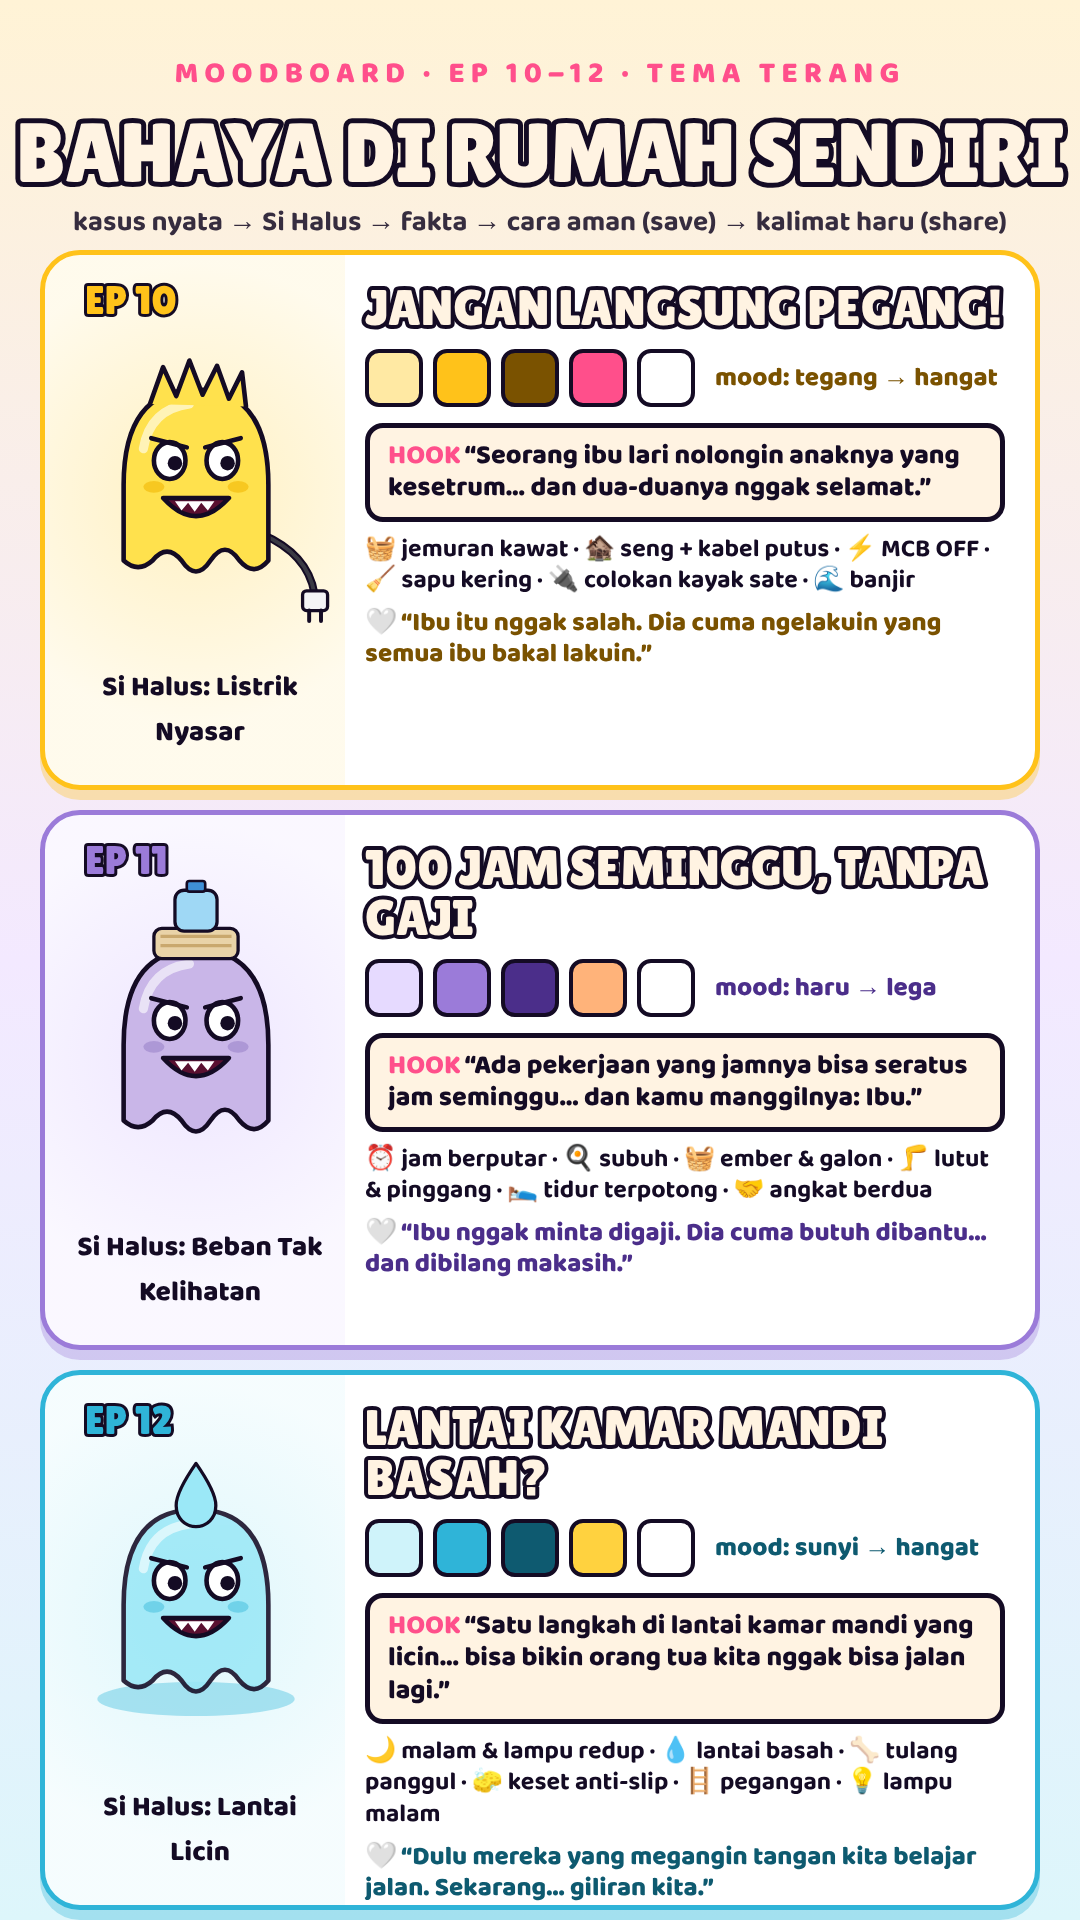
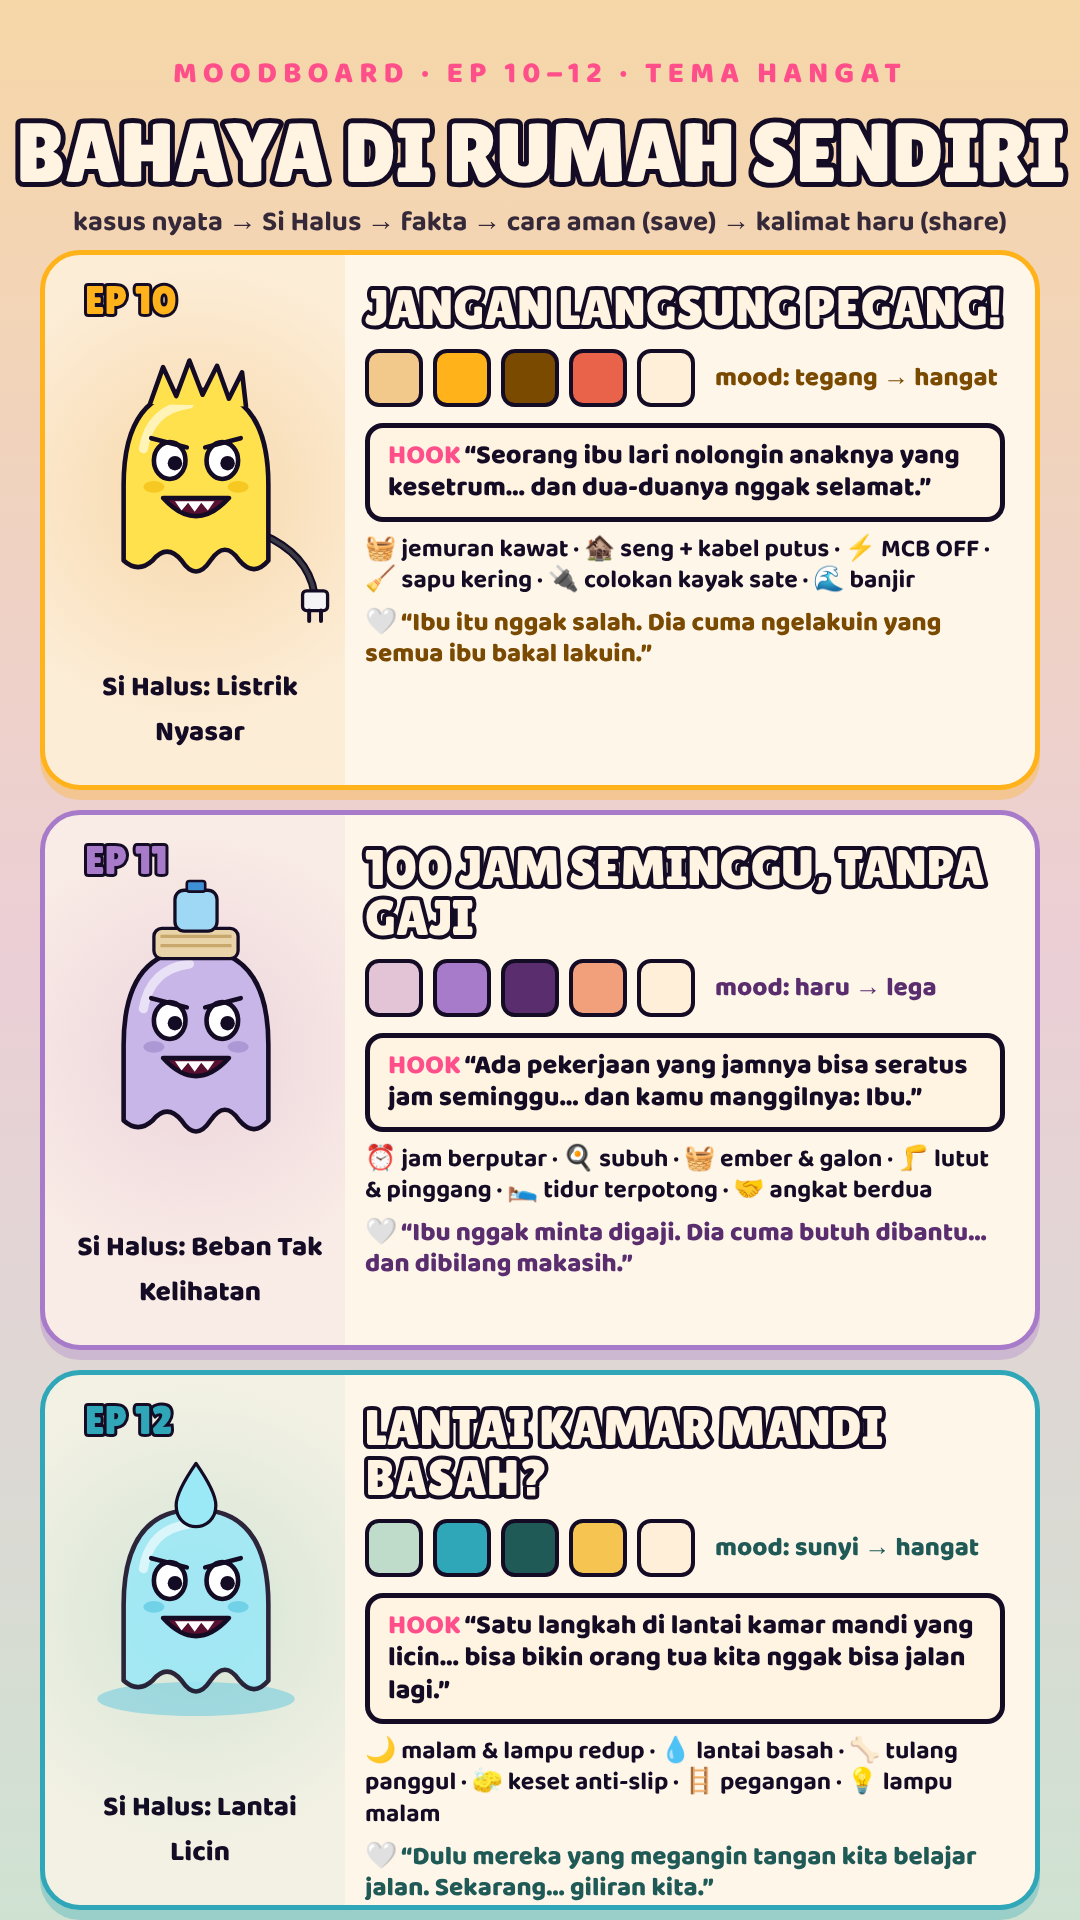
bahaya-tak-terlihat: palet hangat EP10-12 (krem-peach, amber, mauve, sage)
Claude-Session: https://claude.ai/code/session_012ZutiwbFwz53uic7DJWbi6

diff --git a/bahaya-tak-terlihat/src/Moodboard.tsx b/bahaya-tak-terlihat/src/Moodboard.tsx
@@ -22,7 +22,7 @@ const EPS: Ep[] = [
     title: "JANGAN LANGSUNG PEGANG!",
     ghost: "volt",
     ghostName: "Listrik Nyasar",
-    palette: ["#FFE9A3", "#FFC21A", "#7A5200", "#FF4F8B", "#FFFFFF"],
+    palette: ["#F3C98B", "#FFB21A", "#7A4A00", "#E8634A", "#FFEFD9"],
     hook: "“Seorang ibu lari nolongin anaknya yang kesetrum… dan dua-duanya nggak selamat.”",
     heart: "“Ibu itu nggak salah. Dia cuma ngelakuin yang semua ibu bakal lakuin.”",
     scenes: "🧺 jemuran kawat · 🏚 seng + kabel putus · ⚡ MCB OFF · 🧹 sapu kering · 🔌 colokan kayak sate · 🌊 banjir",
@@ -33,7 +33,7 @@ const EPS: Ep[] = [
     title: "100 JAM SEMINGGU, TANPA GAJI",
     ghost: "load",
     ghostName: "Beban Tak Kelihatan",
-    palette: ["#E6DAFF", "#9B7BD9", "#4B2E8A", "#FFB37A", "#FFFFFF"],
+    palette: ["#E3C4D6", "#A77BC9", "#5A2E6E", "#F2A07B", "#FFEFD9"],
     hook: "“Ada pekerjaan yang jamnya bisa seratus jam seminggu… dan kamu manggilnya: Ibu.”",
     heart: "“Ibu nggak minta digaji. Dia cuma butuh dibantu… dan dibilang makasih.”",
     scenes: "⏰ jam berputar · 🍳 subuh · 🧺 ember & galon · 🦵 lutut & pinggang · 🛌 tidur terpotong · 🤝 angkat berdua",
@@ -44,7 +44,7 @@ const EPS: Ep[] = [
     title: "LANTAI KAMAR MANDI BASAH?",
     ghost: "slip",
     ghostName: "Lantai Licin",
-    palette: ["#CFF3FA", "#2FB4D8", "#0E5A70", "#FFD23F", "#FFFFFF"],
+    palette: ["#BFDCCB", "#2FA7B8", "#1F5A57", "#F5C451", "#FFEFD9"],
     hook: "“Satu langkah di lantai kamar mandi yang licin… bisa bikin orang tua kita nggak bisa jalan lagi.”",
     heart: "“Dulu mereka yang megangin tangan kita belajar jalan. Sekarang… giliran kita.”",
     scenes: "🌙 malam & lampu redup · 💧 lantai basah · 🦴 tulang panggul · 🧽 keset anti-slip · 🪜 pegangan · 💡 lampu malam",
@@ -53,7 +53,7 @@ const EPS: Ep[] = [
 ];
 
 const Row: React.FC<{ e: Ep; top: number }> = ({ e, top }) => (
-  <div style={{ position: "absolute", top, left: 40, right: 40, height: 540, background: "#FFFFFF", border: `5px solid ${e.palette[1]}`, boxShadow: `0 10px 0 ${e.palette[1]}55`, borderRadius: 40, overflow: "hidden" }}>
+  <div style={{ position: "absolute", top, left: 40, right: 40, height: 540, background: "#FFF6EA", border: `5px solid ${e.palette[1]}`, boxShadow: `0 10px 0 ${e.palette[1]}55`, borderRadius: 40, overflow: "hidden" }}>
     <div style={{ position: "absolute", left: 0, top: 0, bottom: 0, width: 300, background: `radial-gradient(circle at 50% 45%, ${e.palette[0]}AA, ${e.palette[0]}33 70%)` }} />
     <div style={{ position: "absolute", left: 26, top: 70 }}>
       <SiHalus size={300} variant={e.ghost} mood="grin" />
@@ -79,9 +79,9 @@ const Row: React.FC<{ e: Ep; top: number }> = ({ e, top }) => (
 );
 
 export const Moodboard: React.FC = () => (
-  <AbsoluteFill style={{ background: "linear-gradient(180deg, #FFF3D6 0%, #F3E9FF 50%, #DDF6FB 100%)" }}>
+  <AbsoluteFill style={{ background: "linear-gradient(180deg, #F6D7A8 0%, #EBCFD6 50%, #CFE2D2 100%)" }}>
     <div style={{ position: "absolute", top: 50, left: 0, right: 0, textAlign: "center" }}>
-      <div style={{ fontFamily: BODY, fontWeight: 800, fontSize: 30, letterSpacing: 6, color: C.pink }}>MOODBOARD · EP 10–12 · TEMA TERANG</div>
+      <div style={{ fontFamily: BODY, fontWeight: 800, fontSize: 30, letterSpacing: 6, color: C.pink }}>MOODBOARD · EP 10–12 · TEMA HANGAT</div>
       <div style={{ fontFamily: HEAD, fontSize: 84, color: C.cream, WebkitTextStroke: `10px ${C.ink}`, paintOrder: "stroke fill", marginTop: 6 }}>BAHAYA DI RUMAH SENDIRI</div>
       <div style={{ fontFamily: BODY, fontWeight: 700, fontSize: 28, color: C.ink, opacity: 0.85 }}>kasus nyata → Si Halus → fakta → cara aman (save) → kalimat haru (share)</div>
     </div>

diff --git a/bahaya-tak-terlihat/src/Covers.tsx b/bahaya-tak-terlihat/src/Covers.tsx
@@ -23,7 +23,7 @@ const CoverFrame: React.FC<{
 }> = ({ ep, accent, tint, line1, line2, sub, children }) => (
   <AbsoluteFill
     style={{
-      background: ep >= 10 ? `radial-gradient(ellipse 85% 60% at 50% 62%, #FFFFFF 0%, ${tint} 80%)` : `radial-gradient(ellipse 85% 60% at 50% 62%, ${tint} 0%, ${C.bg1} 78%)`,
+      background: ep >= 10 ? `radial-gradient(ellipse 85% 60% at 50% 62%, #FFEFD9 0%, ${tint} 82%)` : `radial-gradient(ellipse 85% 60% at 50% 62%, ${tint} 0%, ${C.bg1} 78%)`,
       overflow: "hidden",
     }}
   >
@@ -342,7 +342,7 @@ const Clothesline: React.FC = () => (
 );
 
 export const Cover10: React.FC = () => (
-  <CoverFrame ep={10} accent="#FFC21A" tint="#FFE9A3" line1="JANGAN LANGSUNG" line2="PEGANG!" sub="ada yang kesetrum? baca ini ⚡">
+  <CoverFrame ep={10} accent="#FFB21A" tint="#F3C98B" line1="JANGAN LANGSUNG" line2="PEGANG!" sub="ada yang kesetrum? baca ini ⚡">
     <div style={{ position: "absolute", left: 50, top: 1000 }}>
       <Clothesline />
     </div>
@@ -357,7 +357,7 @@ export const Cover10: React.FC = () => (
 );
 
 export const Cover11: React.FC = () => (
-  <CoverFrame ep={11} accent="#9B7BD9" tint="#E6DAFF" line1="100 JAM SEMINGGU," line2="TANPA GAJI" sub="kamu manggilnya: Ibu 🤍">
+  <CoverFrame ep={11} accent="#A77BC9" tint="#E3C4D6" line1="100 JAM SEMINGGU," line2="TANPA GAJI" sub="kamu manggilnya: Ibu 🤍">
     <ScanLine y={1450} />
     <div style={{ position: "absolute", left: 90, top: 1010 }}>
       <Worker size={640} expr="dizzy" pose="shrug" shirt="#B5838D" pants="#4A3B5C" hijab="#6D597A" seed={6} />
@@ -369,7 +369,7 @@ export const Cover11: React.FC = () => (
 );
 
 export const Cover12: React.FC = () => (
-  <CoverFrame ep={12} accent="#2FB4D8" tint="#CFF3FA" line1="LANTAI KAMAR MANDI" line2="BASAH?" sub="orang tua kita taruhannya 🛁">
+  <CoverFrame ep={12} accent="#2FA7B8" tint="#BFDCCB" line1="LANTAI KAMAR MANDI" line2="BASAH?" sub="orang tua kita taruhannya 🛁">
     <ScanLine y={1450} />
     <div style={{ position: "absolute", left: 80, top: 1010 }}>
       <Worker size={640} expr="shocked" pose="shrug" shirt="#7A9E7E" pants="#3B3B4F" hair="#D9D9E0" seed={7} />

diff --git a/bahaya-tak-terlihat/src/Episode.tsx b/bahaya-tak-terlihat/src/Episode.tsx
@@ -160,7 +160,7 @@ export const EndCard: React.FC<{ revealAt: number; ep?: number; ctaAt?: number; 
     <AbsoluteFill>
       <AbsoluteFill
         style={{
-          background: isLight(ep) ? "radial-gradient(ellipse at 50% 45%, #FFFFFF, #FFE9C7 75%)" : `radial-gradient(ellipse at 50% 45%, ${C.bg2}, ${C.bg1} 70%)`,
+          background: isLight(ep) ? "radial-gradient(ellipse at 50% 45%, #FFEFD9, #F1C38F 78%)" : `radial-gradient(ellipse at 50% 45%, ${C.bg2}, ${C.bg1} 70%)`,
           opacity: intro,
         }}
       />
@@ -237,7 +237,7 @@ export const Episode: React.FC<EpisodeProps> = (props) => {
   const hc = HOOKCTA[props.ep];
   const introF = Math.round(hc.hookDur * fps);
   return (
-    <AbsoluteFill style={{ background: isLight(props.ep) ? "#FFF7EC" : C.bg1, overflow: "hidden" }}>
+    <AbsoluteFill style={{ background: isLight(props.ep) ? "#F6E1C4" : C.bg1, overflow: "hidden" }}>
       <Audio src={staticFile(`audio/ep${props.ep}_mix.wav`)} />
       <Sequence name="Isi utama" from={introF}>
         <EpisodeBody {...withInsert(props, INSERTS[props.ep])} insert={INSERTS[props.ep]} ctaAt={hc.ctaAt} ctaText={hc.ctaText} ctaDur={hc.ctaDur} />
@@ -280,7 +280,7 @@ const EpisodeBody: React.FC<EpisodeProps & { ctaAt: number; ctaText: string; cta
   const t = frame / fps;
   const f = flashAt(t, warp ? flashes.map((x) => warpOldToNew(x, warp)) : flashes);
   return (
-    <AbsoluteFill style={{ background: isLight(ep) ? "#FFF7EC" : C.bg1, overflow: "hidden" }}>
+    <AbsoluteFill style={{ background: isLight(ep) ? "#F6E1C4" : C.bg1, overflow: "hidden" }}>
       <Backdrop accent={accent} tint={tint} light={isLight(ep)} />
       <AbsoluteFill style={{ translate: `0px ${contentShift(ep)}px` }}>
       {warp ? (

diff --git a/bahaya-tak-terlihat/src/Kit.tsx b/bahaya-tak-terlihat/src/Kit.tsx
@@ -24,7 +24,7 @@ export const Backdrop: React.FC<{ accent: string; tint?: string; light?: boolean
     <AbsoluteFill
       style={{
         background: light
-          ? `radial-gradient(ellipse 90% 60% at 50% 42%, #FFFFFF 0%, ${tint} 78%)`
+          ? `radial-gradient(ellipse 90% 60% at 50% 42%, #FFEFD9 0%, ${tint} 82%)`
           : `radial-gradient(ellipse 90% 60% at 50% 42%, ${tint} 0%, ${C.bg1} 75%)`,
       }}
     >

diff --git a/bahaya-tak-terlihat/src/ep/Ep10.tsx b/bahaya-tak-terlihat/src/ep/Ep10.tsx
@@ -30,7 +30,7 @@ const Ep10Scenes: React.FC = () => {
 };
 
 export const Ep10: React.FC = () => (
-  <Episode ep={10} accent="#FFC21A" tint="#FFE9A3" words={words} endStart={EP10.endStart} revealAt={EP10.revealAt} flashes={[]}>
+  <Episode ep={10} accent="#FFB21A" tint="#F3C98B" words={words} endStart={EP10.endStart} revealAt={EP10.revealAt} flashes={[]}>
     <Ep10Scenes />
   </Episode>
 );

diff --git a/bahaya-tak-terlihat/src/ep/Ep11.tsx b/bahaya-tak-terlihat/src/ep/Ep11.tsx
@@ -30,7 +30,7 @@ const Ep11Scenes: React.FC = () => {
 };
 
 export const Ep11: React.FC = () => (
-  <Episode ep={11} accent="#9B7BD9" tint="#E6DAFF" words={words} endStart={EP11.endStart} revealAt={EP11.revealAt} flashes={[]}>
+  <Episode ep={11} accent="#A77BC9" tint="#E3C4D6" words={words} endStart={EP11.endStart} revealAt={EP11.revealAt} flashes={[]}>
     <Ep11Scenes />
   </Episode>
 );

diff --git a/bahaya-tak-terlihat/src/ep/Ep12.tsx b/bahaya-tak-terlihat/src/ep/Ep12.tsx
@@ -30,7 +30,7 @@ const Ep12Scenes: React.FC = () => {
 };
 
 export const Ep12: React.FC = () => (
-  <Episode ep={12} accent="#2FB4D8" tint="#CFF3FA" words={words} endStart={EP12.endStart} revealAt={EP12.revealAt} flashes={[]}>
+  <Episode ep={12} accent="#2FA7B8" tint="#BFDCCB" words={words} endStart={EP12.endStart} revealAt={EP12.revealAt} flashes={[]}>
     <Ep12Scenes />
   </Episode>
 );
